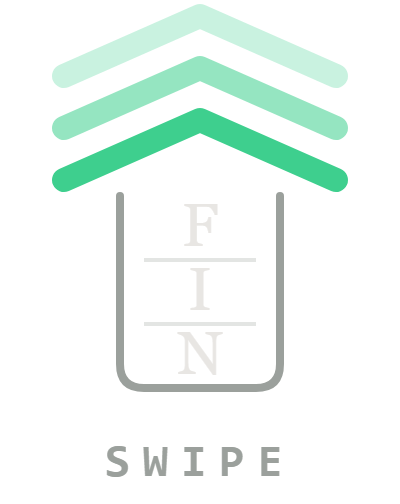
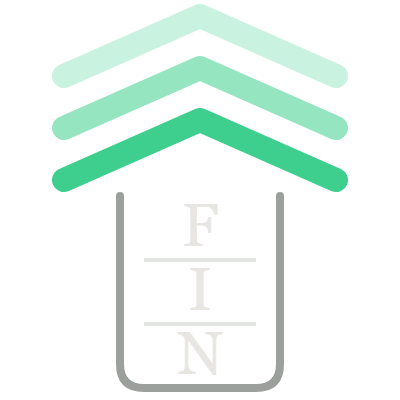
brand: drop SWIPE wordmark from the lockup - the mark stands alone

diff --git a/docs/brand/render.py b/docs/brand/render.py
@@ -12,7 +12,7 @@ lands next to this file. Sizes:
   play-icon-512.png         Play Store listing icon
   play-feature-1024x500.png Play Store feature graphic (lockup + tagline)
   splash-mark-512.png       transparent mark for launch_background.xml
-  lockup-2x.png / -3x.png   in-app lockup (200 logical px wide)
+  lockup-2x.png / -3x.png   in-app wordmark-free mark (200 logical px wide)
 """
 from __future__ import annotations
 
@@ -26,7 +26,6 @@ CHROME = r"C:\Program Files\Google\Chrome\Application\chrome.exe"
 BG = "#0E100F"
 MARK = (HERE / "mark.svg").read_text(encoding="utf-8")
 MONO = (HERE / "mark-mono.svg").read_text(encoding="utf-8")
-LOCKUP = (HERE / "lockup.svg").read_text(encoding="utf-8")
 
 
 def svg_at(svg: str, w: int, h: int) -> str:
@@ -64,12 +63,12 @@ def main() -> None:
     shoot("icon-full-1024.png", page(svg_at(MARK, box, box), 1024, 1024, BG), 1024, 1024, False)
     shoot("play-icon-512.png", page(svg_at(MARK, 300, 300), 512, 512, BG), 512, 512, False)
     shoot("splash-mark-512.png", page(svg_at(MARK, 512, 512), 512, 512, None), 512, 512, True)
-    shoot("lockup-2x.png", page(svg_at(LOCKUP, 400, 504), 400, 504, None), 400, 504, True)
-    shoot("lockup-3x.png", page(svg_at(LOCKUP, 600, 756), 600, 756, None), 600, 756, True)
+    shoot("lockup-2x.png", page(svg_at(MARK, 400, 400), 400, 400, None), 400, 400, True)
+    shoot("lockup-3x.png", page(svg_at(MARK, 600, 600), 600, 600, None), 600, 600, True)
 
     feature = (
         '<div style="display:flex;align-items:center;gap:72px">'
-        + svg_at(LOCKUP, 240, 302)
+        + svg_at(MARK, 260, 260)
         + '<div style="font-family:Georgia,\'Noto Serif\',serif;color:#E8E6E3">'
         '<div style="font-size:64px;font-weight:700;letter-spacing:-.01em">FinSwipe</div>'
         '<div style="font-size:26px;font-style:italic;color:#9BA09C;margin-top:14px;max-width:460px;line-height:1.35">'
